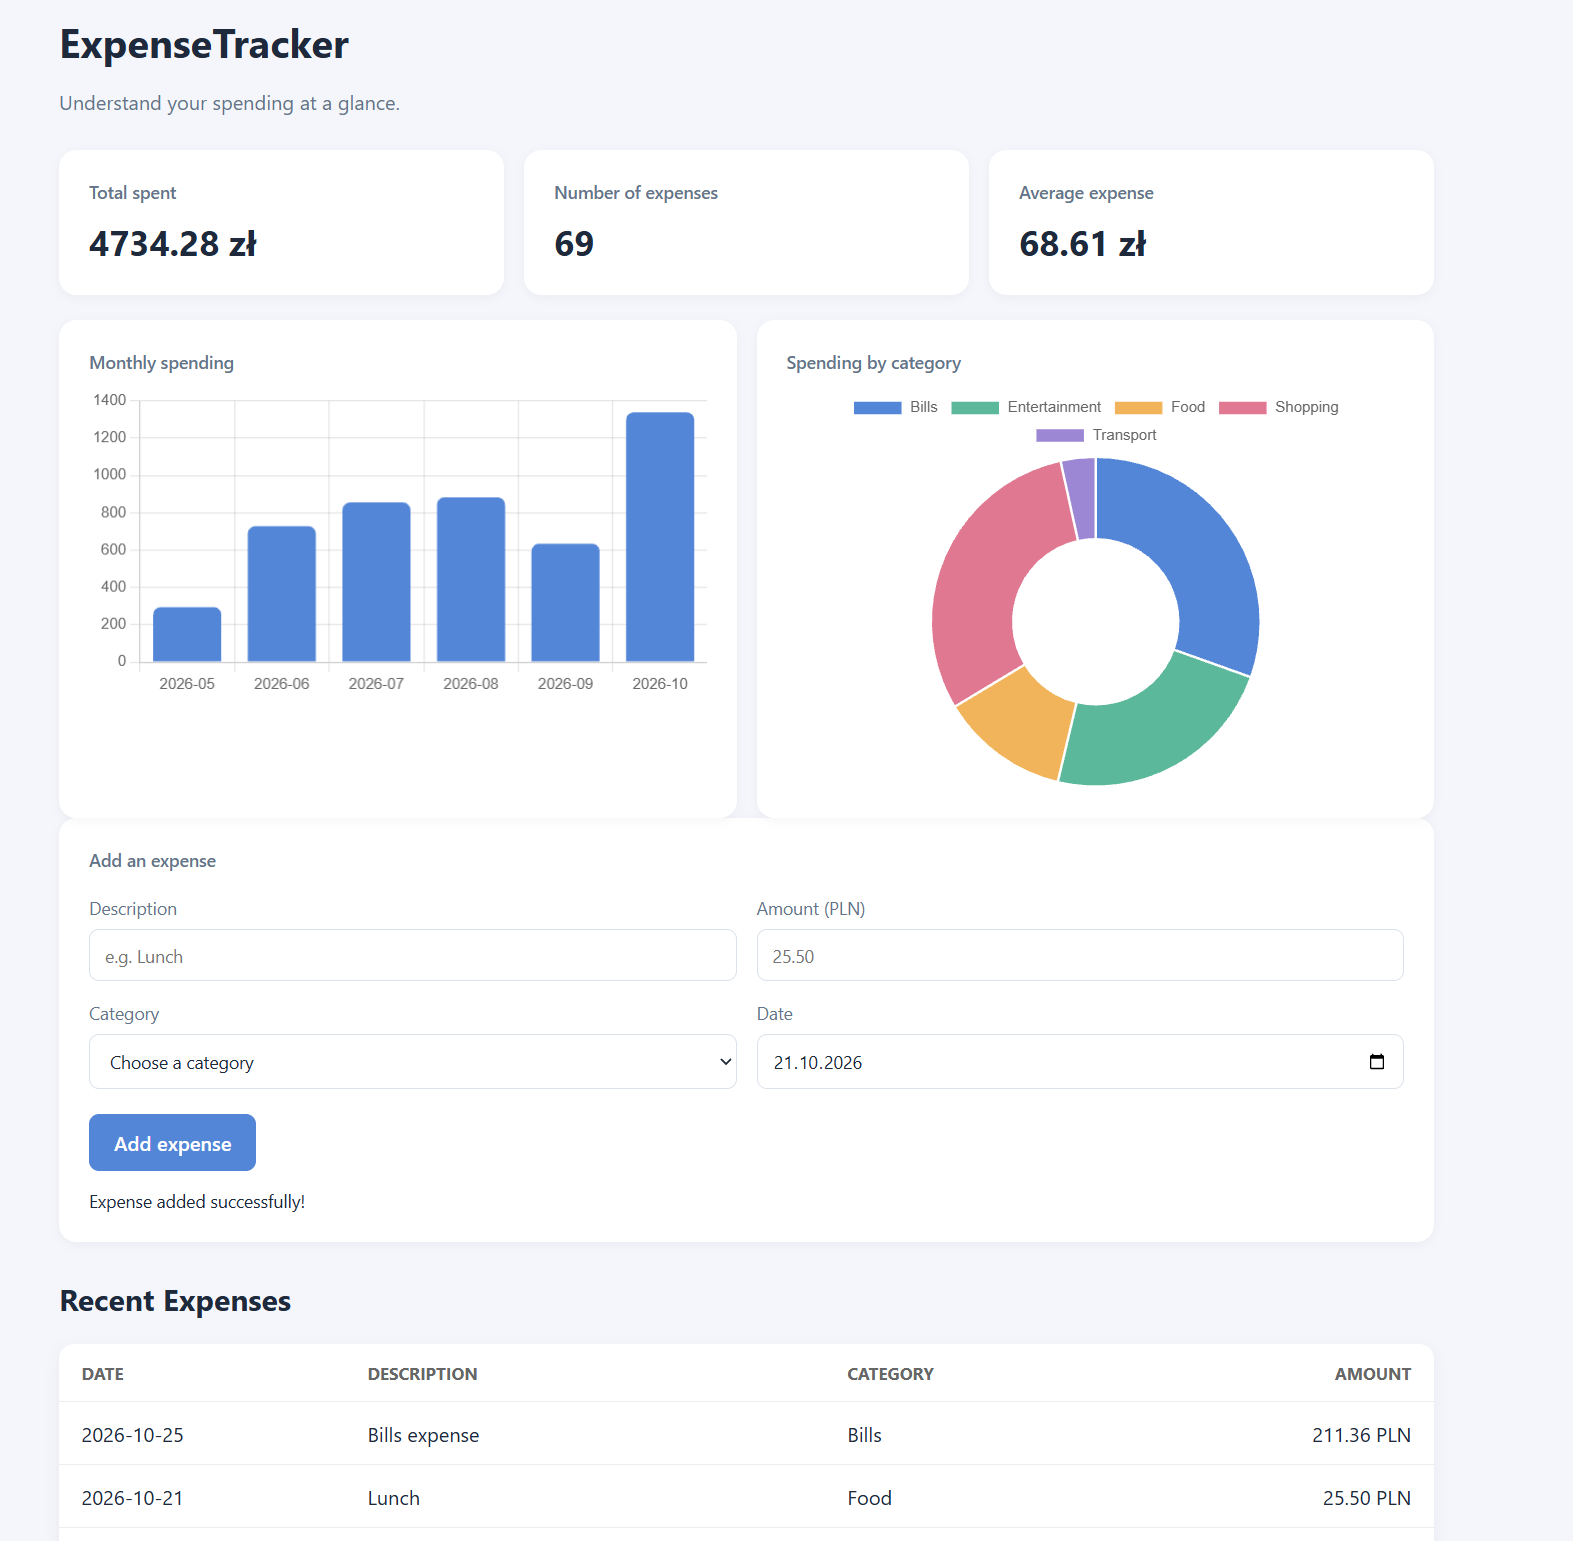
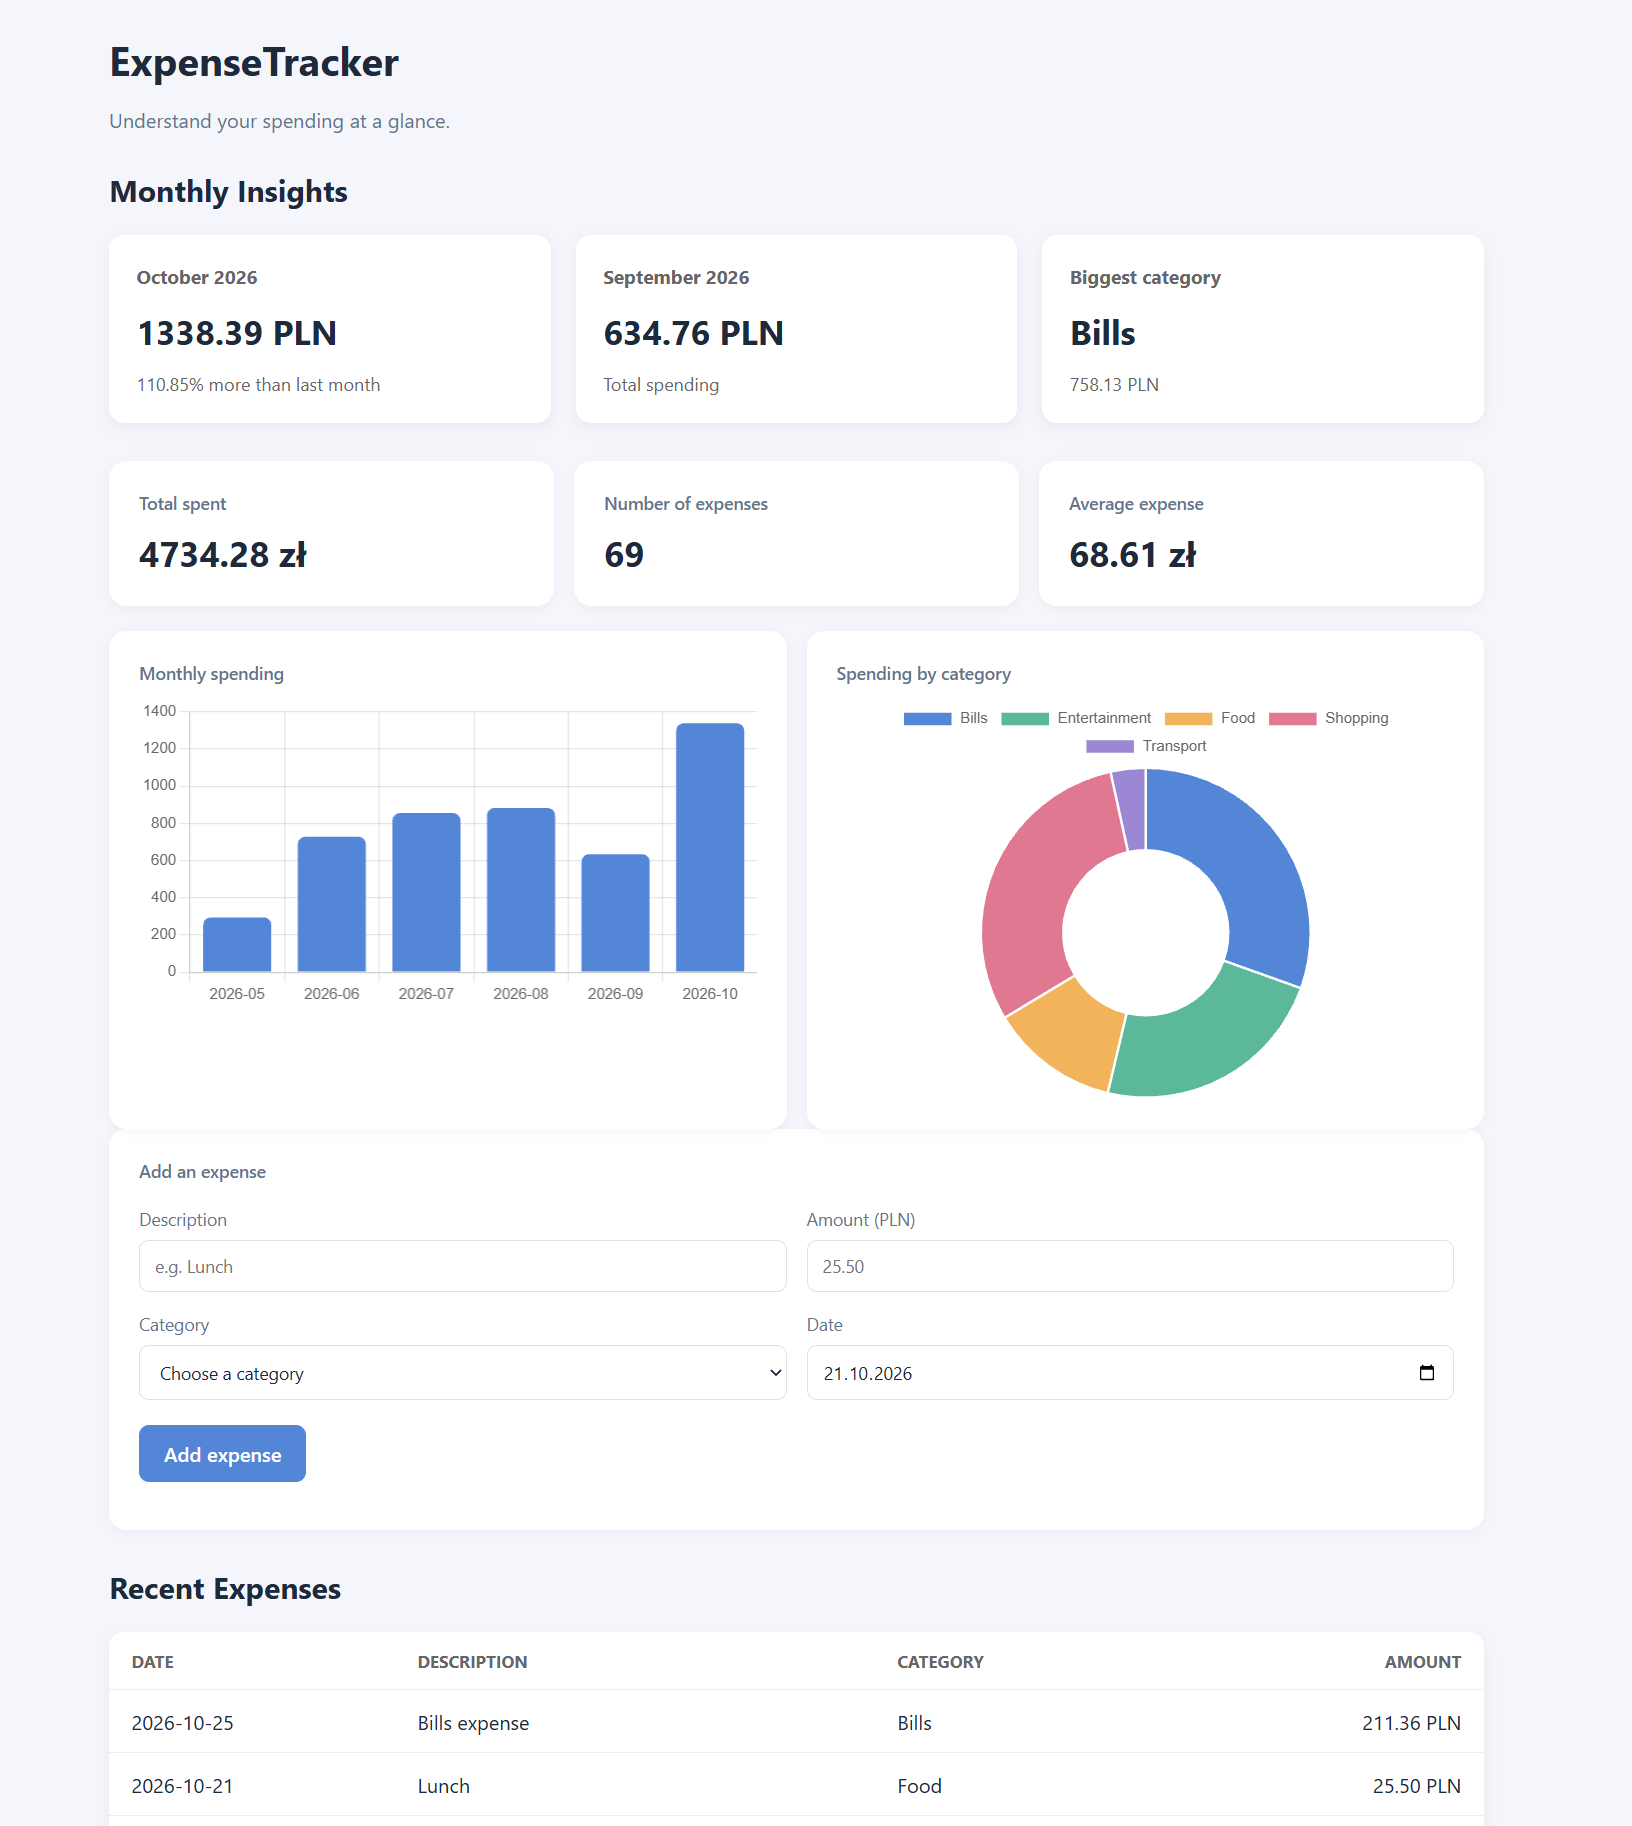
Update README.md

diff --git a/README.md b/README.md
@@ -1,33 +1,116 @@
 # ExpenseTracker
 
-A simple REST API for tracking personal expenses, built with Python, FastAPI, and SQLite.
-
-This project is a hands-on exercise in backend development, database operations, API design, and automated testing.
+A personal expense tracking application built with Python, FastAPI, and SQLite. It combines expense management with interactive visualizations and monthly spending insights to make financial data easier to understand.
 
 ![screenshot.png](screenshot.png)
 
 ## Features
 
-- Create new expenses
-- Retrieve all expenses
-- Retrieve a single expense by ID
-- Update existing expenses
-- Delete expenses
-- Calculate expense statistics:
-  - Total amount spent
-  - Number of expenses
-  - Average expense amount
-- Return appropriate HTTP errors for expenses that don't exist
-- Automated tests for database operations and API endpoints
+- **Expense management** — create, view, update, and delete expenses.
+- **Dashboard** — view total spending, number of expenses, and average expense.
+- **Interactive visualizations** — explore monthly spending trends and category breakdowns.
+- **Monthly spending insights** — compare spending with the previous month and calculate percentage changes.
+- **Category analysis** — identify the category with the highest spending in the current month.
+- **Recent expenses** — view the latest transactions directly on the dashboard.
+- **Automated tests** — verify database operations, API endpoints, analytics, and chart generation.
 
 ## Tech Stack
 
-- **Python 3.14+**
-- **FastAPI** — REST API framework
-- **SQLite** — database
-- **Pydantic** — request data validation
-- **pytest** — automated testing
-- **HTTPX** — testing API endpoints
+| Technology | Purpose |
+|---|---|
+| Python | Application logic and data analysis |
+| FastAPI | REST API |
+| SQLite | Persistent data storage |
+| HTML & CSS | Dashboard structure and styling |
+| JavaScript | Dashboard interactions and API integration |
+| Chart.js | Interactive dashboard charts |
+| Matplotlib | Python chart generation |
+| Pytest | Automated testing |
+
+## Getting Started
+
+### Prerequisites
+
+- Python 3.14 or newer
+- pip
+
+### Installation
+
+Clone the repository and enter the project directory:
+
+```bash
+git clone <your-repository-url>
+cd ExpenseTracker
+```
+
+Create and activate a virtual environment:
+
+```bash
+python -m venv .venv
+source .venv/bin/activate
+```
+
+On Windows, activate it with:
+
+```powershell
+.venv\Scripts\Activate.ps1
+```
+
+Install the dependencies:
+
+```bash
+python -m pip install fastapi "uvicorn[standard]" pytest httpx matplotlib
+```
+
+### Run the application
+
+Start the development server:
+
+```bash
+python -m uvicorn app.main:app --reload
+```
+
+Open the dashboard at:
+
+http://127.0.0.1:8000
+
+The interactive API documentation is available at:
+
+http://127.0.0.1:8000/docs
+
+## Dashboard
+
+The dashboard brings expense tracking and analytics together in one interface.
+
+It displays spending summaries, monthly and category charts, month-to-month comparisons, the largest spending category, and recent transactions. Expenses can be added through the dashboard, with the displayed statistics and charts refreshed after submission.
+
+<!-- Add a screenshot of the dashboard here once one is saved in the repository. -->
+
+## API Overview
+
+| Method | Endpoint | Description |
+|---|---|---|
+| GET | `/expenses` | Retrieve expenses |
+| GET | `/expenses/{expense_id}` | Retrieve an expense by ID |
+| POST | `/expenses` | Create an expense |
+| PUT | `/expenses/{expense_id}` | Update an expense |
+| DELETE | `/expenses/{expense_id}` | Delete an expense |
+| GET | `/expenses/summary` | Retrieve spending summary statistics |
+| GET | `/expenses/by-category` | Retrieve spending totals by category |
+| GET | `/expenses/by-month` | Retrieve monthly spending totals |
+| GET | `/expenses/insights` | Compare monthly spending and identify the biggest category |
+
+All endpoints can be explored through the interactive Swagger UI at `/docs`.
+
+## Running Tests
+
+Run the test suite from the project root:
+
+```bash
+python -m pytest -v
+```
+
+The tests cover database operations, API behavior, spending calculations, and visualization output.
 
 ## Project Structure
 
@@ -36,160 +119,33 @@ ExpenseTracker/
 ├── app/
 │   ├── __init__.py
 │   ├── main.py
-│   └── database.py
+│   ├── database.py
+│   ├── visualizations.py
+│   └── static/
+│       └── index.html
 ├── tests/
 │   ├── test_main.py
-│   └── test_database.py
+│   ├── test_database.py
+│   └── test_visualizations.py
 ├── .gitignore
-├── README.md
-└── expenses.db
+└── README.md
 ```
 
-The database file is created locally when the application initializes or creates its tables.
+- `app/main.py` — FastAPI application and API endpoints.
+- `app/database.py` — SQLite database operations and spending analytics.
+- `app/visualizations.py` — Python chart generation.
+- `app/static/index.html` — interactive web dashboard.
+- `tests/` — automated tests.
 
-## Getting Started
-
-### 1. Clone the repository
-
-```bash
-git clone git@github.com:filibie/ExpenseTracker.git
-cd ExpenseTracker
-```
-
-### 2. Create a virtual environment
-
-```bash
-python3 -m venv .venv
-```
-
-Activate it on macOS or Linux:
-
-```bash
-source .venv/bin/activate
-```
-
-Make sure your virtual environment uses Python 3.14 or newer.
-
-### 3. Install dependencies
-
-```bash
-python -m pip install fastapi "uvicorn[standard]" pytest httpx
-```
-
-### 4. Run the application
-
-```bash
-python -m uvicorn app.main:app --reload
-```
-
-The API will be available at:
-
-http://127.0.0.1:8000
-
-Interactive API documentation:
-
-http://127.0.0.1:8000/docs
-
-## API Endpoints
-
-| Method | Endpoint | Description |
-|---|---|---|
-| GET | `/` | Welcome message |
-| GET | `/expenses` | Retrieve all expenses |
-| POST | `/expenses` | Create an expense |
-| GET | `/expenses/{expense_id}` | Retrieve an expense by ID |
-| PUT | `/expenses/{expense_id}` | Update an expense |
-| DELETE | `/expenses/{expense_id}` | Delete an expense |
-| GET | `/expenses/summary` | Retrieve expense statistics |
-
-### Example: Create an expense
-
-**Request**
-
-```http
-POST /expenses
-Content-Type: application/json
-```
-
-```json
-{
-  "description": "Lunch",
-  "amount": 12.00,
-  "category": "Food"
-}
-```
-
-A successful request returns HTTP `201 Created` and the created expense, including its database ID.
-
-### Example: Retrieve expense statistics
-
-**Request**
-
-```http
-GET /expenses/summary
-```
-
-Example response:
-
-```json
-{
-  "total_spent": 19.9,
-  "expense_count": 3,
-  "average_expense": 6.633333333333333
-}
-```
-
-The values above are illustrative. The actual response depends on the expenses stored in the database.
-
-### Error handling
-
-Requests for nonexistent expenses return HTTP `404 Not Found`.
-
-Invalid request data is validated by FastAPI and Pydantic.
-
-## Running Tests
-
-Run the complete test suite:
-
-```bash
-python -m pytest -v
-```
-
-Run only database tests:
-
-```bash
-python -m pytest tests/test_database.py -v
-```
-
-Run only API tests:
-
-```bash
-python -m pytest tests/test_main.py -v
-```
-
-The tests cover database operations, API endpoints, and error handling.
-
-## Database
-
-ExpenseTracker uses SQLite to store expenses.
-
-Each expense contains:
-
-- `id` — unique identifier
-- `description` — description of the expense
-- `amount` — expense amount
-- `category` — expense category
-
-The database layer is separated from the API routes in `app/database.py`.
+The SQLite database is created locally when the application initializes. Local database files should not be committed to version control.
 
 ## Future Improvements
 
-- Add expense dates and date-range filtering
-- Add spending summaries grouped by category
-- Improve validation for expense amounts and descriptions
-- Add configuration for database paths
-- Build a frontend for visualizing expenses
+- Filter analytics by a custom date range.
+- Add configurable monthly budgets.
+- Export expenses and reports to CSV.
+- Improve dashboard accessibility and responsive design.
 
 ## License
 
-MIT License
+This project is available under the MIT License.
